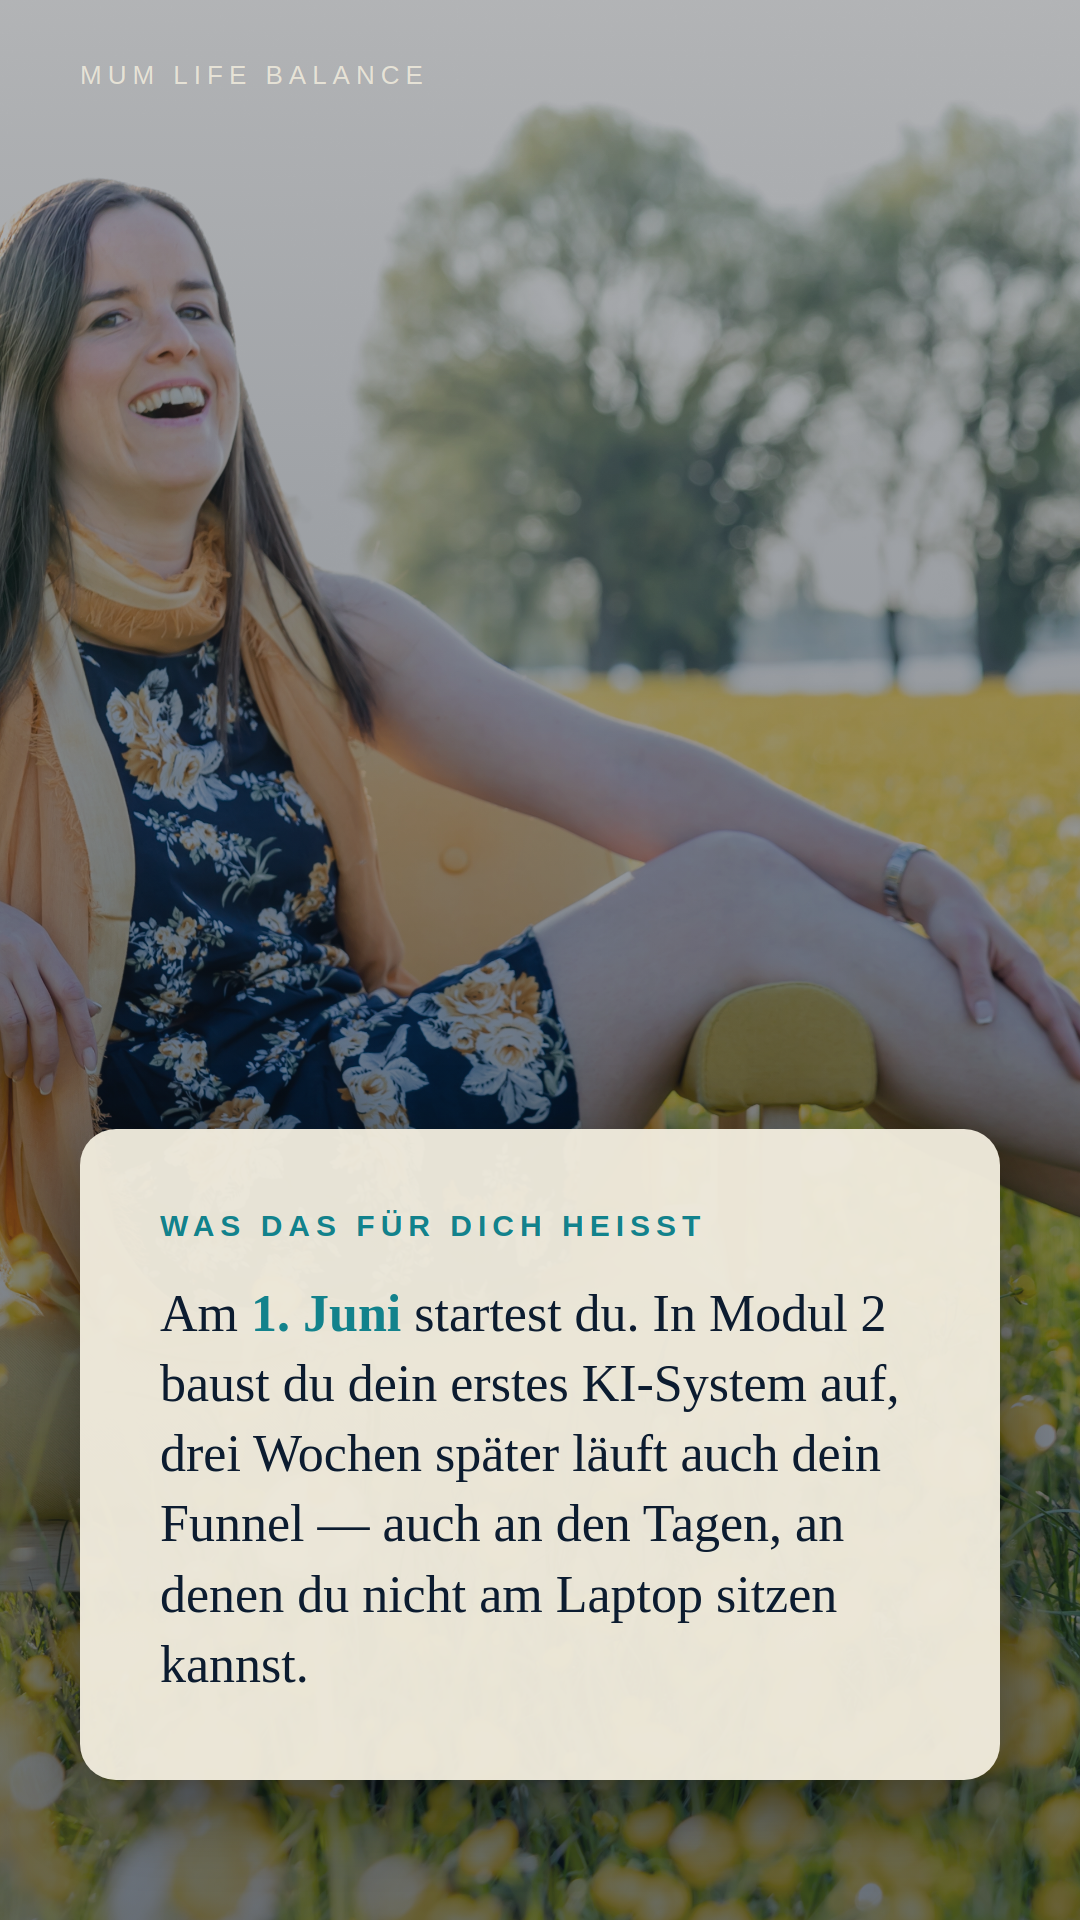
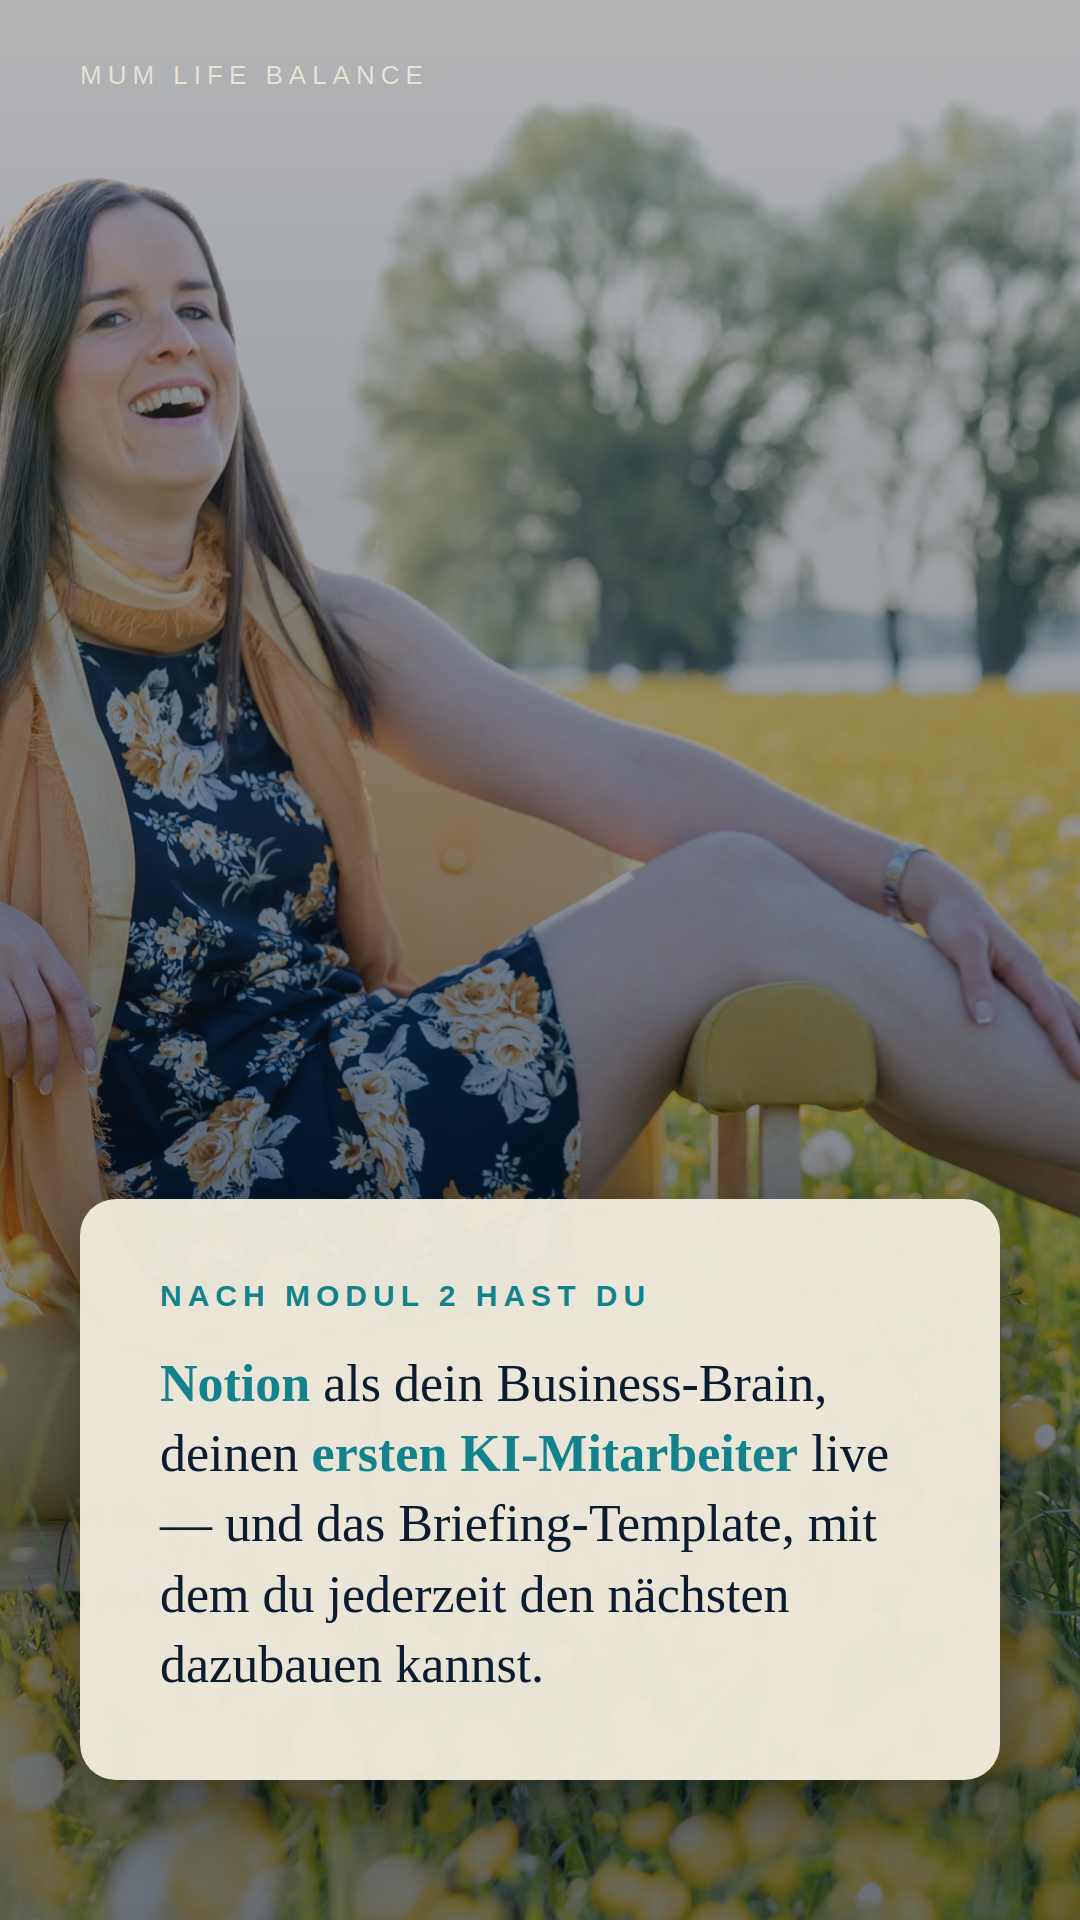
story: Tag 5 v2 — Modul 2 konkret angeteasert (KI briefen wie Mitarbeiter)
Patricia-Korrektur: Slide 4 + 5 komplett auf Modul 2 fokussieren statt
Modul 2 + 3 oberflaechlich. Konkretes Take-Home-Beispiel statt Hand-Wave.

- Slide 4 NEU: „KI briefen wie einen Mitarbeiter — nicht klicken wie ein
  Tool. Beispiel: statt 'mach mir eine Caption' sagst du 'hier ist meine
  Brand-Voice, hier drei Beispiele, schreib im selben Stil'." — direkt
  umsetzbar, sofort verstaendlich
- Slide 5 NEU: „Nach Modul 2 hast du Notion als Business-Brain, deinen
  ersten KI-Mitarbeiter live und das Briefing-Template fuer den naechsten."

Verkaufsstand bestaetigt: 10 Plaetze noch frei (5/15 gesamt).

Changed region(s): [[0.0611, 0.5625, 0.9472, 0.875]]

diff --git a/outputs/stories/2026-05-25-salesday-mentoring-mama-ceo-launch-tag-5-polen/slides.html b/outputs/stories/2026-05-25-salesday-mentoring-mama-ceo-launch-tag-5-polen/slides.html
@@ -78,7 +78,7 @@
     <div class="frame-label">03 System-Beweis</div>
   </div>
 
-  <!-- SLIDE 4: MODUL-BRIDGE · Genau das ist Modul 2 + 3 -->
+  <!-- SLIDE 4: MODUL-2-TEASE · KI briefen wie Mitarbeiter -->
   <div class="stage-wrap">
     <div class="stage">
       <div class="slide foto-slide">
@@ -86,17 +86,17 @@
         <div class="dim"></div>
         <div class="brand-tag">Mum Life Balance</div>
         <div class="card">
-          <div class="card-eyebrow">Genau dafür gibt's Modul 2 + 3</div>
+          <div class="card-eyebrow">Was du in Modul 2 lernst</div>
           <div class="card-text">
-            <strong>Modul 2</strong>: dein KI-System — Notion als Business-Brain, dein erster KI-Mitarbeiter. <strong>Modul 3</strong>: dein Akquise-Funnel — Keyword → Bot → Mail-Sequenz → Verkauf.
+            <strong>KI briefen wie einen Mitarbeiter</strong> — nicht klicken wie ein Tool. Beispiel: statt <em>„mach mir eine Caption"</em> sagst du <em>„hier ist meine Brand-Voice, hier drei Beispiele, schreib im selben Stil"</em>. Klingt klein. Ist der Switch der alles ändert.
           </div>
         </div>
       </div>
     </div>
-    <div class="frame-label">04 Modul-Bridge</div>
+    <div class="frame-label">04 Modul-2-Tease · Briefen statt klicken</div>
   </div>
 
-  <!-- SLIDE 5: TAKE-HOME / PROMISE -->
+  <!-- SLIDE 5: TAKE-HOME · Was du nach Modul 2 hast -->
   <div class="stage-wrap">
     <div class="stage">
       <div class="slide foto-slide">
@@ -104,14 +104,14 @@
         <div class="dim"></div>
         <div class="brand-tag">Mum Life Balance</div>
         <div class="card">
-          <div class="card-eyebrow">Was das für dich heisst</div>
+          <div class="card-eyebrow">Nach Modul 2 hast du</div>
           <div class="card-text">
-            Am <strong>1. Juni</strong> startest du. In Modul 2 baust du dein erstes KI-System auf, drei Wochen später läuft auch dein Funnel — auch an den Tagen, an denen du nicht am Laptop sitzen kannst.
+            <strong>Notion</strong> als dein Business-Brain, deinen <strong>ersten KI-Mitarbeiter</strong> live — und das Briefing-Template, mit dem du jederzeit den nächsten dazubauen kannst.
           </div>
         </div>
       </div>
     </div>
-    <div class="frame-label">05 Take-Home · Promise</div>
+    <div class="frame-label">05 Take-Home · Was du nach Modul 2 hast</div>
   </div>
 
   <!-- SLIDE 6: STATUS + KNAPPHEIT -->
